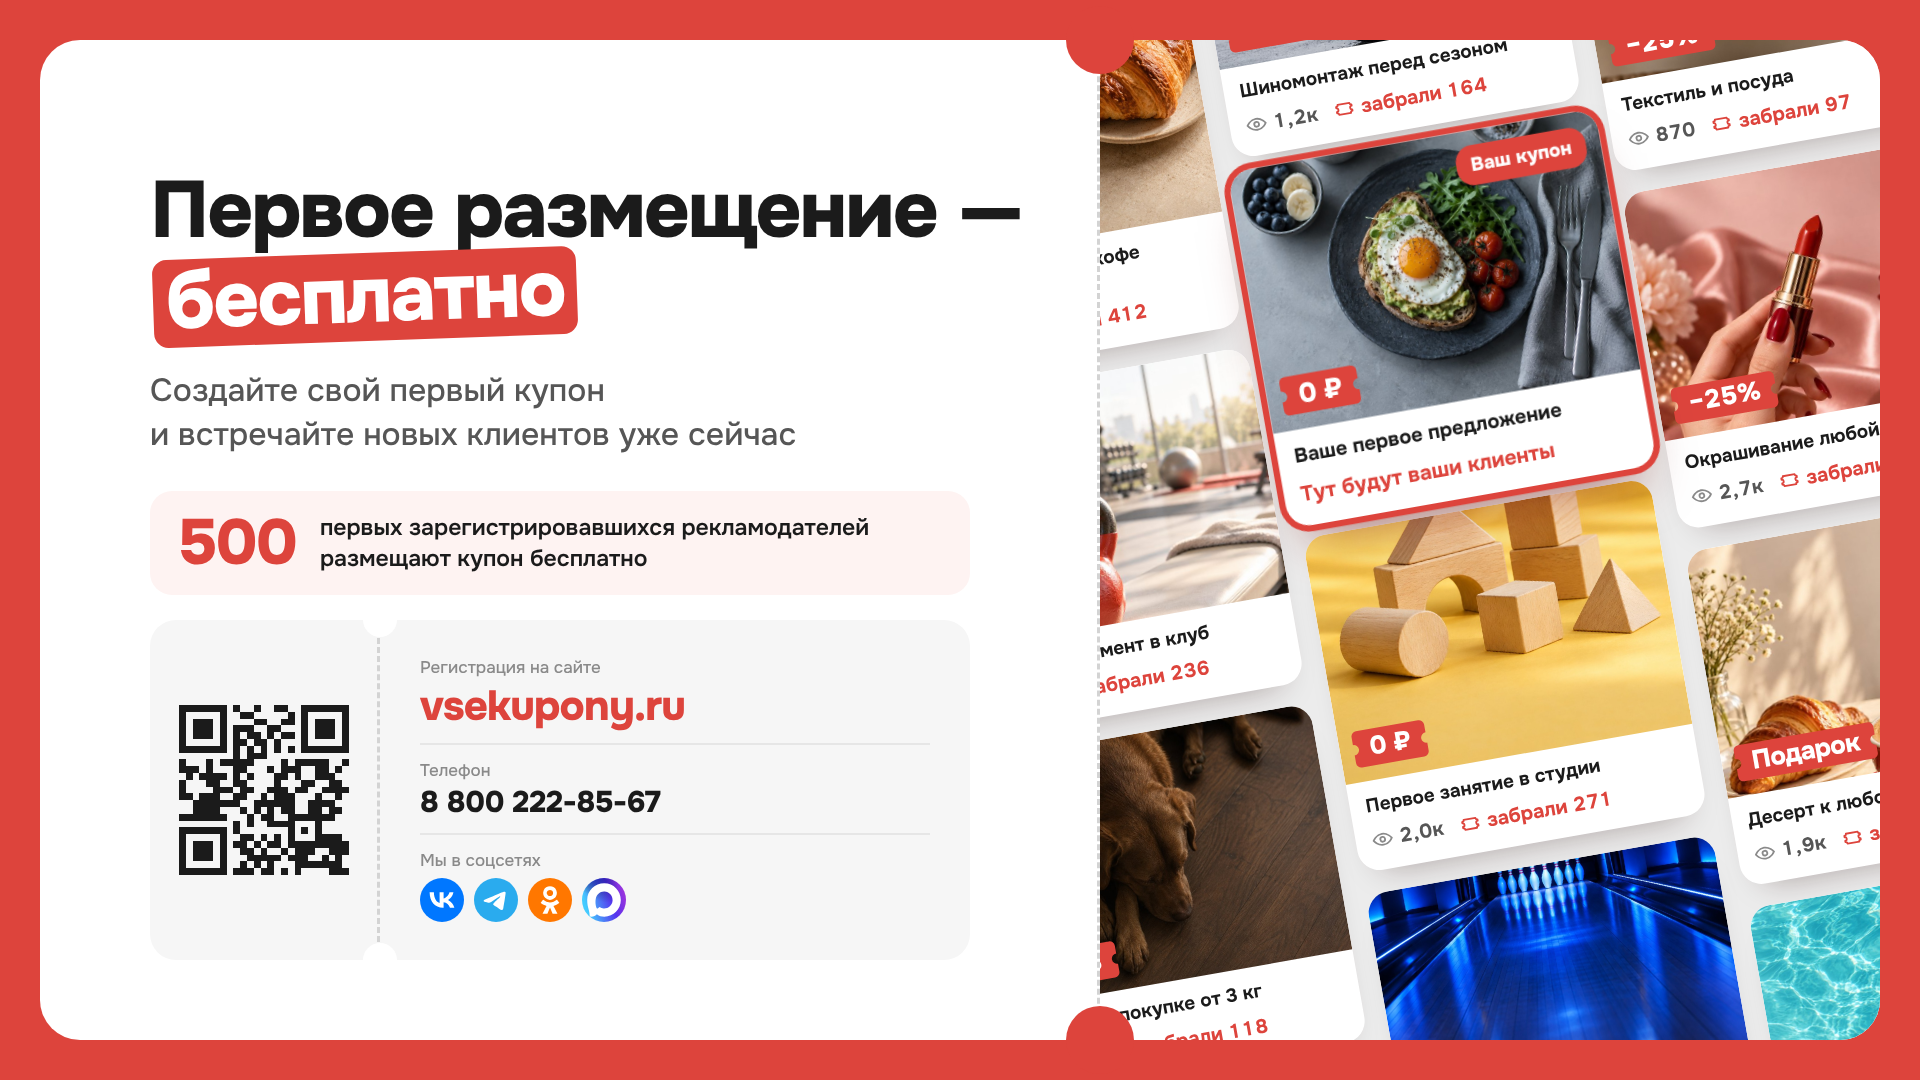
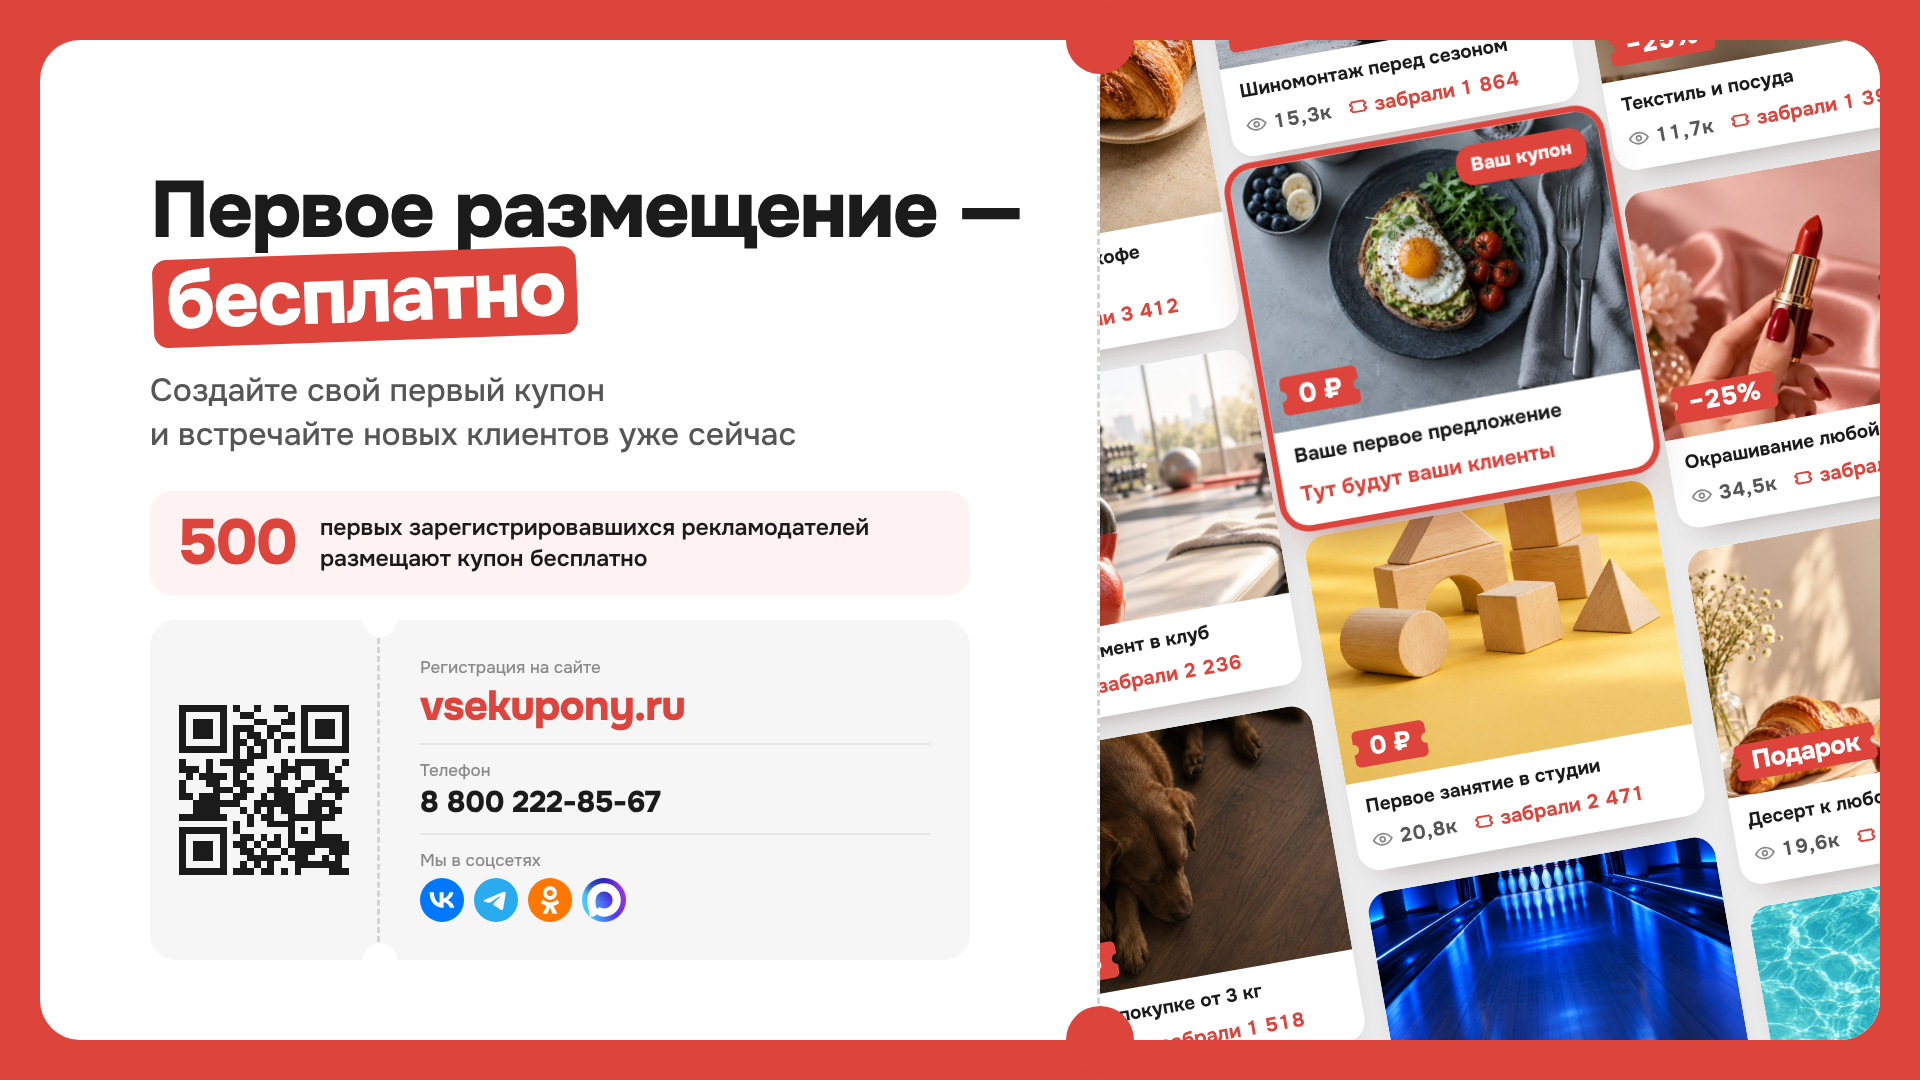
Презентация: на стене купонов — десятки тысяч просмотров и тысячи забравших
Claude-Session: https://claude.ai/code/session_01HQTTQEBkqu3b2tPP56NRpL

diff --git a/social-kit/deck.html b/social-kit/deck.html
@@ -802,7 +802,7 @@ a{color:inherit;text-decoration:none}
       </div>
     </div>
     <div class="posts">
-      <div class="wall"><div class="wall__col"><div class="wc"><div class="wc__ph" style="background-image:url('../assets/coupons/kofe-warm.jpg')"><span class="tk">5 = 4</span></div><div class="wc__t">Каждая пятая чашка кофе в&nbsp;подарок</div><div class="wc__s"><span><svg viewBox="0 0 24 24" fill="none" stroke="currentColor" stroke-width="2"><path d="M2 12s3.6-6 10-6 10 6 10 6-3.6 6-10 6S2 12 2 12Z"/><circle cx="12" cy="12" r="2.6"/></svg>3,1к</span><span class="is-hot"><svg viewBox="0 0 24 24" fill="none" stroke="currentColor" stroke-width="2" stroke-linejoin="round"><path d="M3.5 8.5a2 2 0 0 0 2-2h13a2 2 0 0 0 2 2v1.5a2 2 0 0 0 0 4v1.5a2 2 0 0 0-2 2h-13a2 2 0 0 0-2-2V14a2 2 0 0 0 0-4z"/></svg>забрали 412</span></div></div><div class="wc"><div class="wc__ph" style="background-image:url('../assets/coupons/fitness.jpg')"><span class="tk">−35%</span></div><div class="wc__t">Годовой абонемент в&nbsp;клуб</div><div class="wc__s"><span><svg viewBox="0 0 24 24" fill="none" stroke="currentColor" stroke-width="2"><path d="M2 12s3.6-6 10-6 10 6 10 6-3.6 6-10 6S2 12 2 12Z"/><circle cx="12" cy="12" r="2.6"/></svg>1,8к</span><span class="is-hot"><svg viewBox="0 0 24 24" fill="none" stroke="currentColor" stroke-width="2" stroke-linejoin="round"><path d="M3.5 8.5a2 2 0 0 0 2-2h13a2 2 0 0 0 2 2v1.5a2 2 0 0 0 0 4v1.5a2 2 0 0 0-2 2h-13a2 2 0 0 0-2-2V14a2 2 0 0 0 0-4z"/></svg>забрали 236</span></div></div><div class="wc"><div class="wc__ph" style="background-image:url('../assets/coupons/pitomtsy-brown.jpg')"><span class="tk">−15%</span></div><div class="wc__t">Корм при покупке от&nbsp;3&nbsp;кг</div><div class="wc__s"><span><svg viewBox="0 0 24 24" fill="none" stroke="currentColor" stroke-width="2"><path d="M2 12s3.6-6 10-6 10 6 10 6-3.6 6-10 6S2 12 2 12Z"/><circle cx="12" cy="12" r="2.6"/></svg>940</span><span class="is-hot"><svg viewBox="0 0 24 24" fill="none" stroke="currentColor" stroke-width="2" stroke-linejoin="round"><path d="M3.5 8.5a2 2 0 0 0 2-2h13a2 2 0 0 0 2 2v1.5a2 2 0 0 0 0 4v1.5a2 2 0 0 0-2 2h-13a2 2 0 0 0-2-2V14a2 2 0 0 0 0-4z"/></svg>забрали 118</span></div></div><div class="wc"><div class="wc__ph" style="background-image:url('../assets/coupons/manikyur-rose.jpg')"><span class="tk">2 = 1</span></div><div class="wc__t">Маникюр с&nbsp;покрытием</div><div class="wc__s"><span><svg viewBox="0 0 24 24" fill="none" stroke="currentColor" stroke-width="2"><path d="M2 12s3.6-6 10-6 10 6 10 6-3.6 6-10 6S2 12 2 12Z"/><circle cx="12" cy="12" r="2.6"/></svg>2,4к</span><span class="is-hot"><svg viewBox="0 0 24 24" fill="none" stroke="currentColor" stroke-width="2" stroke-linejoin="round"><path d="M3.5 8.5a2 2 0 0 0 2-2h13a2 2 0 0 0 2 2v1.5a2 2 0 0 0 0 4v1.5a2 2 0 0 0-2 2h-13a2 2 0 0 0-2-2V14a2 2 0 0 0 0-4z"/></svg>забрали 305</span></div></div></div><div class="wall__col"><div class="wc"><div class="wc__ph" style="background-image:url('../assets/coupons/avto-steel.jpg')"><span class="tk">−20%</span></div><div class="wc__t">Шиномонтаж перед сезоном</div><div class="wc__s"><span><svg viewBox="0 0 24 24" fill="none" stroke="currentColor" stroke-width="2"><path d="M2 12s3.6-6 10-6 10 6 10 6-3.6 6-10 6S2 12 2 12Z"/><circle cx="12" cy="12" r="2.6"/></svg>1,2к</span><span class="is-hot"><svg viewBox="0 0 24 24" fill="none" stroke="currentColor" stroke-width="2" stroke-linejoin="round"><path d="M3.5 8.5a2 2 0 0 0 2-2h13a2 2 0 0 0 2 2v1.5a2 2 0 0 0 0 4v1.5a2 2 0 0 0-2 2h-13a2 2 0 0 0-2-2V14a2 2 0 0 0 0-4z"/></svg>забрали 164</span></div></div><div class="wc is-you"><div class="wc__ph" style="background-image:url('../assets/coupons/eda-cool.jpg')"><span class=wc__you>Ваш купон</span><span class="tk">0 ₽</span></div><div class="wc__t">Ваше первое предложение</div><div class="wc__s"><span>Тут будут ваши клиенты</span></div></div><div class="wc"><div class="wc__ph" style="background-image:url('../assets/coupons/detyam-yellow.jpg')"><span class="tk">0 ₽</span></div><div class="wc__t">Первое занятие в&nbsp;студии</div><div class="wc__s"><span><svg viewBox="0 0 24 24" fill="none" stroke="currentColor" stroke-width="2"><path d="M2 12s3.6-6 10-6 10 6 10 6-3.6 6-10 6S2 12 2 12Z"/><circle cx="12" cy="12" r="2.6"/></svg>2,0к</span><span class="is-hot"><svg viewBox="0 0 24 24" fill="none" stroke="currentColor" stroke-width="2" stroke-linejoin="round"><path d="M3.5 8.5a2 2 0 0 0 2-2h13a2 2 0 0 0 2 2v1.5a2 2 0 0 0 0 4v1.5a2 2 0 0 0-2 2h-13a2 2 0 0 0-2-2V14a2 2 0 0 0 0-4z"/></svg>забрали 271</span></div></div><div class="wc"><div class="wc__ph" style="background-image:url('../assets/coupons/razvlecheniya-blue.jpg')"><span class="tk">−30%</span></div><div class="wc__t">Боулинг в&nbsp;будни</div><div class="wc__s"><span><svg viewBox="0 0 24 24" fill="none" stroke="currentColor" stroke-width="2"><path d="M2 12s3.6-6 10-6 10 6 10 6-3.6 6-10 6S2 12 2 12Z"/><circle cx="12" cy="12" r="2.6"/></svg>1,5к</span><span class="is-hot"><svg viewBox="0 0 24 24" fill="none" stroke="currentColor" stroke-width="2" stroke-linejoin="round"><path d="M3.5 8.5a2 2 0 0 0 2-2h13a2 2 0 0 0 2 2v1.5a2 2 0 0 0 0 4v1.5a2 2 0 0 0-2 2h-13a2 2 0 0 0-2-2V14a2 2 0 0 0 0-4z"/></svg>забрали 198</span></div></div></div><div class="wall__col"><div class="wc"><div class="wc__ph" style="background-image:url('../assets/coupons/dom-beige.jpg')"><span class="tk">−25%</span></div><div class="wc__t">Текстиль и&nbsp;посуда</div><div class="wc__s"><span><svg viewBox="0 0 24 24" fill="none" stroke="currentColor" stroke-width="2"><path d="M2 12s3.6-6 10-6 10 6 10 6-3.6 6-10 6S2 12 2 12Z"/><circle cx="12" cy="12" r="2.6"/></svg>870</span><span class="is-hot"><svg viewBox="0 0 24 24" fill="none" stroke="currentColor" stroke-width="2" stroke-linejoin="round"><path d="M3.5 8.5a2 2 0 0 0 2-2h13a2 2 0 0 0 2 2v1.5a2 2 0 0 0 0 4v1.5a2 2 0 0 0-2 2h-13a2 2 0 0 0-2-2V14a2 2 0 0 0 0-4z"/></svg>забрали 97</span></div></div><div class="wc"><div class="wc__ph" style="background-image:url('../assets/coupons/beauty.jpg')"><span class="tk">−25%</span></div><div class="wc__t">Окрашивание любой сложности</div><div class="wc__s"><span><svg viewBox="0 0 24 24" fill="none" stroke="currentColor" stroke-width="2"><path d="M2 12s3.6-6 10-6 10 6 10 6-3.6 6-10 6S2 12 2 12Z"/><circle cx="12" cy="12" r="2.6"/></svg>2,7к</span><span class="is-hot"><svg viewBox="0 0 24 24" fill="none" stroke="currentColor" stroke-width="2" stroke-linejoin="round"><path d="M3.5 8.5a2 2 0 0 0 2-2h13a2 2 0 0 0 2 2v1.5a2 2 0 0 0 0 4v1.5a2 2 0 0 0-2 2h-13a2 2 0 0 0-2-2V14a2 2 0 0 0 0-4z"/></svg>забрали 352</span></div></div><div class="wc"><div class="wc__ph" style="background-image:url('../assets/coupons/coffee.jpg')"><span class="tk">Подарок</span></div><div class="wc__t">Десерт к&nbsp;любому напитку</div><div class="wc__s"><span><svg viewBox="0 0 24 24" fill="none" stroke="currentColor" stroke-width="2"><path d="M2 12s3.6-6 10-6 10 6 10 6-3.6 6-10 6S2 12 2 12Z"/><circle cx="12" cy="12" r="2.6"/></svg>1,9к</span><span class="is-hot"><svg viewBox="0 0 24 24" fill="none" stroke="currentColor" stroke-width="2" stroke-linejoin="round"><path d="M3.5 8.5a2 2 0 0 0 2-2h13a2 2 0 0 0 2 2v1.5a2 2 0 0 0 0 4v1.5a2 2 0 0 0-2 2h-13a2 2 0 0 0-2-2V14a2 2 0 0 0 0-4z"/></svg>забрали 240</span></div></div><div class="wc"><div class="wc__ph" style="background-image:url('../assets/coupons/sport-teal.jpg')"><span class="tk">0 ₽</span></div><div class="wc__t">Пробная неделя в&nbsp;клубе</div><div class="wc__s"><span><svg viewBox="0 0 24 24" fill="none" stroke="currentColor" stroke-width="2"><path d="M2 12s3.6-6 10-6 10 6 10 6-3.6 6-10 6S2 12 2 12Z"/><circle cx="12" cy="12" r="2.6"/></svg>1,1к</span><span class="is-hot"><svg viewBox="0 0 24 24" fill="none" stroke="currentColor" stroke-width="2" stroke-linejoin="round"><path d="M3.5 8.5a2 2 0 0 0 2-2h13a2 2 0 0 0 2 2v1.5a2 2 0 0 0 0 4v1.5a2 2 0 0 0-2 2h-13a2 2 0 0 0-2-2V14a2 2 0 0 0 0-4z"/></svg>забрали 143</span></div></div></div></div>
+      <div class="wall"><div class="wall__col"><div class="wc"><div class="wc__ph" style="background-image:url('../assets/coupons/kofe-warm.jpg')"><span class="tk">5 = 4</span></div><div class="wc__t">Каждая пятая чашка кофе в&nbsp;подарок</div><div class="wc__s"><span><svg viewBox="0 0 24 24" fill="none" stroke="currentColor" stroke-width="2"><path d="M2 12s3.6-6 10-6 10 6 10 6-3.6 6-10 6S2 12 2 12Z"/><circle cx="12" cy="12" r="2.6"/></svg>31,2к</span><span class="is-hot"><svg viewBox="0 0 24 24" fill="none" stroke="currentColor" stroke-width="2" stroke-linejoin="round"><path d="M3.5 8.5a2 2 0 0 0 2-2h13a2 2 0 0 0 2 2v1.5a2 2 0 0 0 0 4v1.5a2 2 0 0 0-2 2h-13a2 2 0 0 0-2-2V14a2 2 0 0 0 0-4z"/></svg>забрали 3 412</span></div></div><div class="wc"><div class="wc__ph" style="background-image:url('../assets/coupons/fitness.jpg')"><span class="tk">−35%</span></div><div class="wc__t">Годовой абонемент в&nbsp;клуб</div><div class="wc__s"><span><svg viewBox="0 0 24 24" fill="none" stroke="currentColor" stroke-width="2"><path d="M2 12s3.6-6 10-6 10 6 10 6-3.6 6-10 6S2 12 2 12Z"/><circle cx="12" cy="12" r="2.6"/></svg>18,4к</span><span class="is-hot"><svg viewBox="0 0 24 24" fill="none" stroke="currentColor" stroke-width="2" stroke-linejoin="round"><path d="M3.5 8.5a2 2 0 0 0 2-2h13a2 2 0 0 0 2 2v1.5a2 2 0 0 0 0 4v1.5a2 2 0 0 0-2 2h-13a2 2 0 0 0-2-2V14a2 2 0 0 0 0-4z"/></svg>забрали 2 236</span></div></div><div class="wc"><div class="wc__ph" style="background-image:url('../assets/coupons/pitomtsy-brown.jpg')"><span class="tk">−15%</span></div><div class="wc__t">Корм при покупке от&nbsp;3&nbsp;кг</div><div class="wc__s"><span><svg viewBox="0 0 24 24" fill="none" stroke="currentColor" stroke-width="2"><path d="M2 12s3.6-6 10-6 10 6 10 6-3.6 6-10 6S2 12 2 12Z"/><circle cx="12" cy="12" r="2.6"/></svg>12,9к</span><span class="is-hot"><svg viewBox="0 0 24 24" fill="none" stroke="currentColor" stroke-width="2" stroke-linejoin="round"><path d="M3.5 8.5a2 2 0 0 0 2-2h13a2 2 0 0 0 2 2v1.5a2 2 0 0 0 0 4v1.5a2 2 0 0 0-2 2h-13a2 2 0 0 0-2-2V14a2 2 0 0 0 0-4z"/></svg>забрали 1 518</span></div></div><div class="wc"><div class="wc__ph" style="background-image:url('../assets/coupons/manikyur-rose.jpg')"><span class="tk">2 = 1</span></div><div class="wc__t">Маникюр с&nbsp;покрытием</div><div class="wc__s"><span><svg viewBox="0 0 24 24" fill="none" stroke="currentColor" stroke-width="2"><path d="M2 12s3.6-6 10-6 10 6 10 6-3.6 6-10 6S2 12 2 12Z"/><circle cx="12" cy="12" r="2.6"/></svg>24,6к</span><span class="is-hot"><svg viewBox="0 0 24 24" fill="none" stroke="currentColor" stroke-width="2" stroke-linejoin="round"><path d="M3.5 8.5a2 2 0 0 0 2-2h13a2 2 0 0 0 2 2v1.5a2 2 0 0 0 0 4v1.5a2 2 0 0 0-2 2h-13a2 2 0 0 0-2-2V14a2 2 0 0 0 0-4z"/></svg>забрали 2 905</span></div></div></div><div class="wall__col"><div class="wc"><div class="wc__ph" style="background-image:url('../assets/coupons/avto-steel.jpg')"><span class="tk">−20%</span></div><div class="wc__t">Шиномонтаж перед сезоном</div><div class="wc__s"><span><svg viewBox="0 0 24 24" fill="none" stroke="currentColor" stroke-width="2"><path d="M2 12s3.6-6 10-6 10 6 10 6-3.6 6-10 6S2 12 2 12Z"/><circle cx="12" cy="12" r="2.6"/></svg>15,3к</span><span class="is-hot"><svg viewBox="0 0 24 24" fill="none" stroke="currentColor" stroke-width="2" stroke-linejoin="round"><path d="M3.5 8.5a2 2 0 0 0 2-2h13a2 2 0 0 0 2 2v1.5a2 2 0 0 0 0 4v1.5a2 2 0 0 0-2 2h-13a2 2 0 0 0-2-2V14a2 2 0 0 0 0-4z"/></svg>забрали 1 864</span></div></div><div class="wc is-you"><div class="wc__ph" style="background-image:url('../assets/coupons/eda-cool.jpg')"><span class=wc__you>Ваш купон</span><span class="tk">0 ₽</span></div><div class="wc__t">Ваше первое предложение</div><div class="wc__s"><span>Тут будут ваши клиенты</span></div></div><div class="wc"><div class="wc__ph" style="background-image:url('../assets/coupons/detyam-yellow.jpg')"><span class="tk">0 ₽</span></div><div class="wc__t">Первое занятие в&nbsp;студии</div><div class="wc__s"><span><svg viewBox="0 0 24 24" fill="none" stroke="currentColor" stroke-width="2"><path d="M2 12s3.6-6 10-6 10 6 10 6-3.6 6-10 6S2 12 2 12Z"/><circle cx="12" cy="12" r="2.6"/></svg>20,8к</span><span class="is-hot"><svg viewBox="0 0 24 24" fill="none" stroke="currentColor" stroke-width="2" stroke-linejoin="round"><path d="M3.5 8.5a2 2 0 0 0 2-2h13a2 2 0 0 0 2 2v1.5a2 2 0 0 0 0 4v1.5a2 2 0 0 0-2 2h-13a2 2 0 0 0-2-2V14a2 2 0 0 0 0-4z"/></svg>забрали 2 471</span></div></div><div class="wc"><div class="wc__ph" style="background-image:url('../assets/coupons/razvlecheniya-blue.jpg')"><span class="tk">−30%</span></div><div class="wc__t">Боулинг в&nbsp;будни</div><div class="wc__s"><span><svg viewBox="0 0 24 24" fill="none" stroke="currentColor" stroke-width="2"><path d="M2 12s3.6-6 10-6 10 6 10 6-3.6 6-10 6S2 12 2 12Z"/><circle cx="12" cy="12" r="2.6"/></svg>27,1к</span><span class="is-hot"><svg viewBox="0 0 24 24" fill="none" stroke="currentColor" stroke-width="2" stroke-linejoin="round"><path d="M3.5 8.5a2 2 0 0 0 2-2h13a2 2 0 0 0 2 2v1.5a2 2 0 0 0 0 4v1.5a2 2 0 0 0-2 2h-13a2 2 0 0 0-2-2V14a2 2 0 0 0 0-4z"/></svg>забрали 3 198</span></div></div></div><div class="wall__col"><div class="wc"><div class="wc__ph" style="background-image:url('../assets/coupons/dom-beige.jpg')"><span class="tk">−25%</span></div><div class="wc__t">Текстиль и&nbsp;посуда</div><div class="wc__s"><span><svg viewBox="0 0 24 24" fill="none" stroke="currentColor" stroke-width="2"><path d="M2 12s3.6-6 10-6 10 6 10 6-3.6 6-10 6S2 12 2 12Z"/><circle cx="12" cy="12" r="2.6"/></svg>11,7к</span><span class="is-hot"><svg viewBox="0 0 24 24" fill="none" stroke="currentColor" stroke-width="2" stroke-linejoin="round"><path d="M3.5 8.5a2 2 0 0 0 2-2h13a2 2 0 0 0 2 2v1.5a2 2 0 0 0 0 4v1.5a2 2 0 0 0-2 2h-13a2 2 0 0 0-2-2V14a2 2 0 0 0 0-4z"/></svg>забрали 1 397</span></div></div><div class="wc"><div class="wc__ph" style="background-image:url('../assets/coupons/beauty.jpg')"><span class="tk">−25%</span></div><div class="wc__t">Окрашивание любой сложности</div><div class="wc__s"><span><svg viewBox="0 0 24 24" fill="none" stroke="currentColor" stroke-width="2"><path d="M2 12s3.6-6 10-6 10 6 10 6-3.6 6-10 6S2 12 2 12Z"/><circle cx="12" cy="12" r="2.6"/></svg>34,5к</span><span class="is-hot"><svg viewBox="0 0 24 24" fill="none" stroke="currentColor" stroke-width="2" stroke-linejoin="round"><path d="M3.5 8.5a2 2 0 0 0 2-2h13a2 2 0 0 0 2 2v1.5a2 2 0 0 0 0 4v1.5a2 2 0 0 0-2 2h-13a2 2 0 0 0-2-2V14a2 2 0 0 0 0-4z"/></svg>забрали 4 052</span></div></div><div class="wc"><div class="wc__ph" style="background-image:url('../assets/coupons/coffee.jpg')"><span class="tk">Подарок</span></div><div class="wc__t">Десерт к&nbsp;любому напитку</div><div class="wc__s"><span><svg viewBox="0 0 24 24" fill="none" stroke="currentColor" stroke-width="2"><path d="M2 12s3.6-6 10-6 10 6 10 6-3.6 6-10 6S2 12 2 12Z"/><circle cx="12" cy="12" r="2.6"/></svg>19,6к</span><span class="is-hot"><svg viewBox="0 0 24 24" fill="none" stroke="currentColor" stroke-width="2" stroke-linejoin="round"><path d="M3.5 8.5a2 2 0 0 0 2-2h13a2 2 0 0 0 2 2v1.5a2 2 0 0 0 0 4v1.5a2 2 0 0 0-2 2h-13a2 2 0 0 0-2-2V14a2 2 0 0 0 0-4z"/></svg>забрали 2 340</span></div></div><div class="wc"><div class="wc__ph" style="background-image:url('../assets/coupons/sport-teal.jpg')"><span class="tk">0 ₽</span></div><div class="wc__t">Пробная неделя в&nbsp;клубе</div><div class="wc__s"><span><svg viewBox="0 0 24 24" fill="none" stroke="currentColor" stroke-width="2"><path d="M2 12s3.6-6 10-6 10 6 10 6-3.6 6-10 6S2 12 2 12Z"/><circle cx="12" cy="12" r="2.6"/></svg>22,4к</span><span class="is-hot"><svg viewBox="0 0 24 24" fill="none" stroke="currentColor" stroke-width="2" stroke-linejoin="round"><path d="M3.5 8.5a2 2 0 0 0 2-2h13a2 2 0 0 0 2 2v1.5a2 2 0 0 0 0 4v1.5a2 2 0 0 0-2 2h-13a2 2 0 0 0-2-2V14a2 2 0 0 0 0-4z"/></svg>забрали 2 643</span></div></div></div></div>
     </div>
     <i class="cut cut--vt"></i><i class="cut cut--vb"></i>
   </section>
